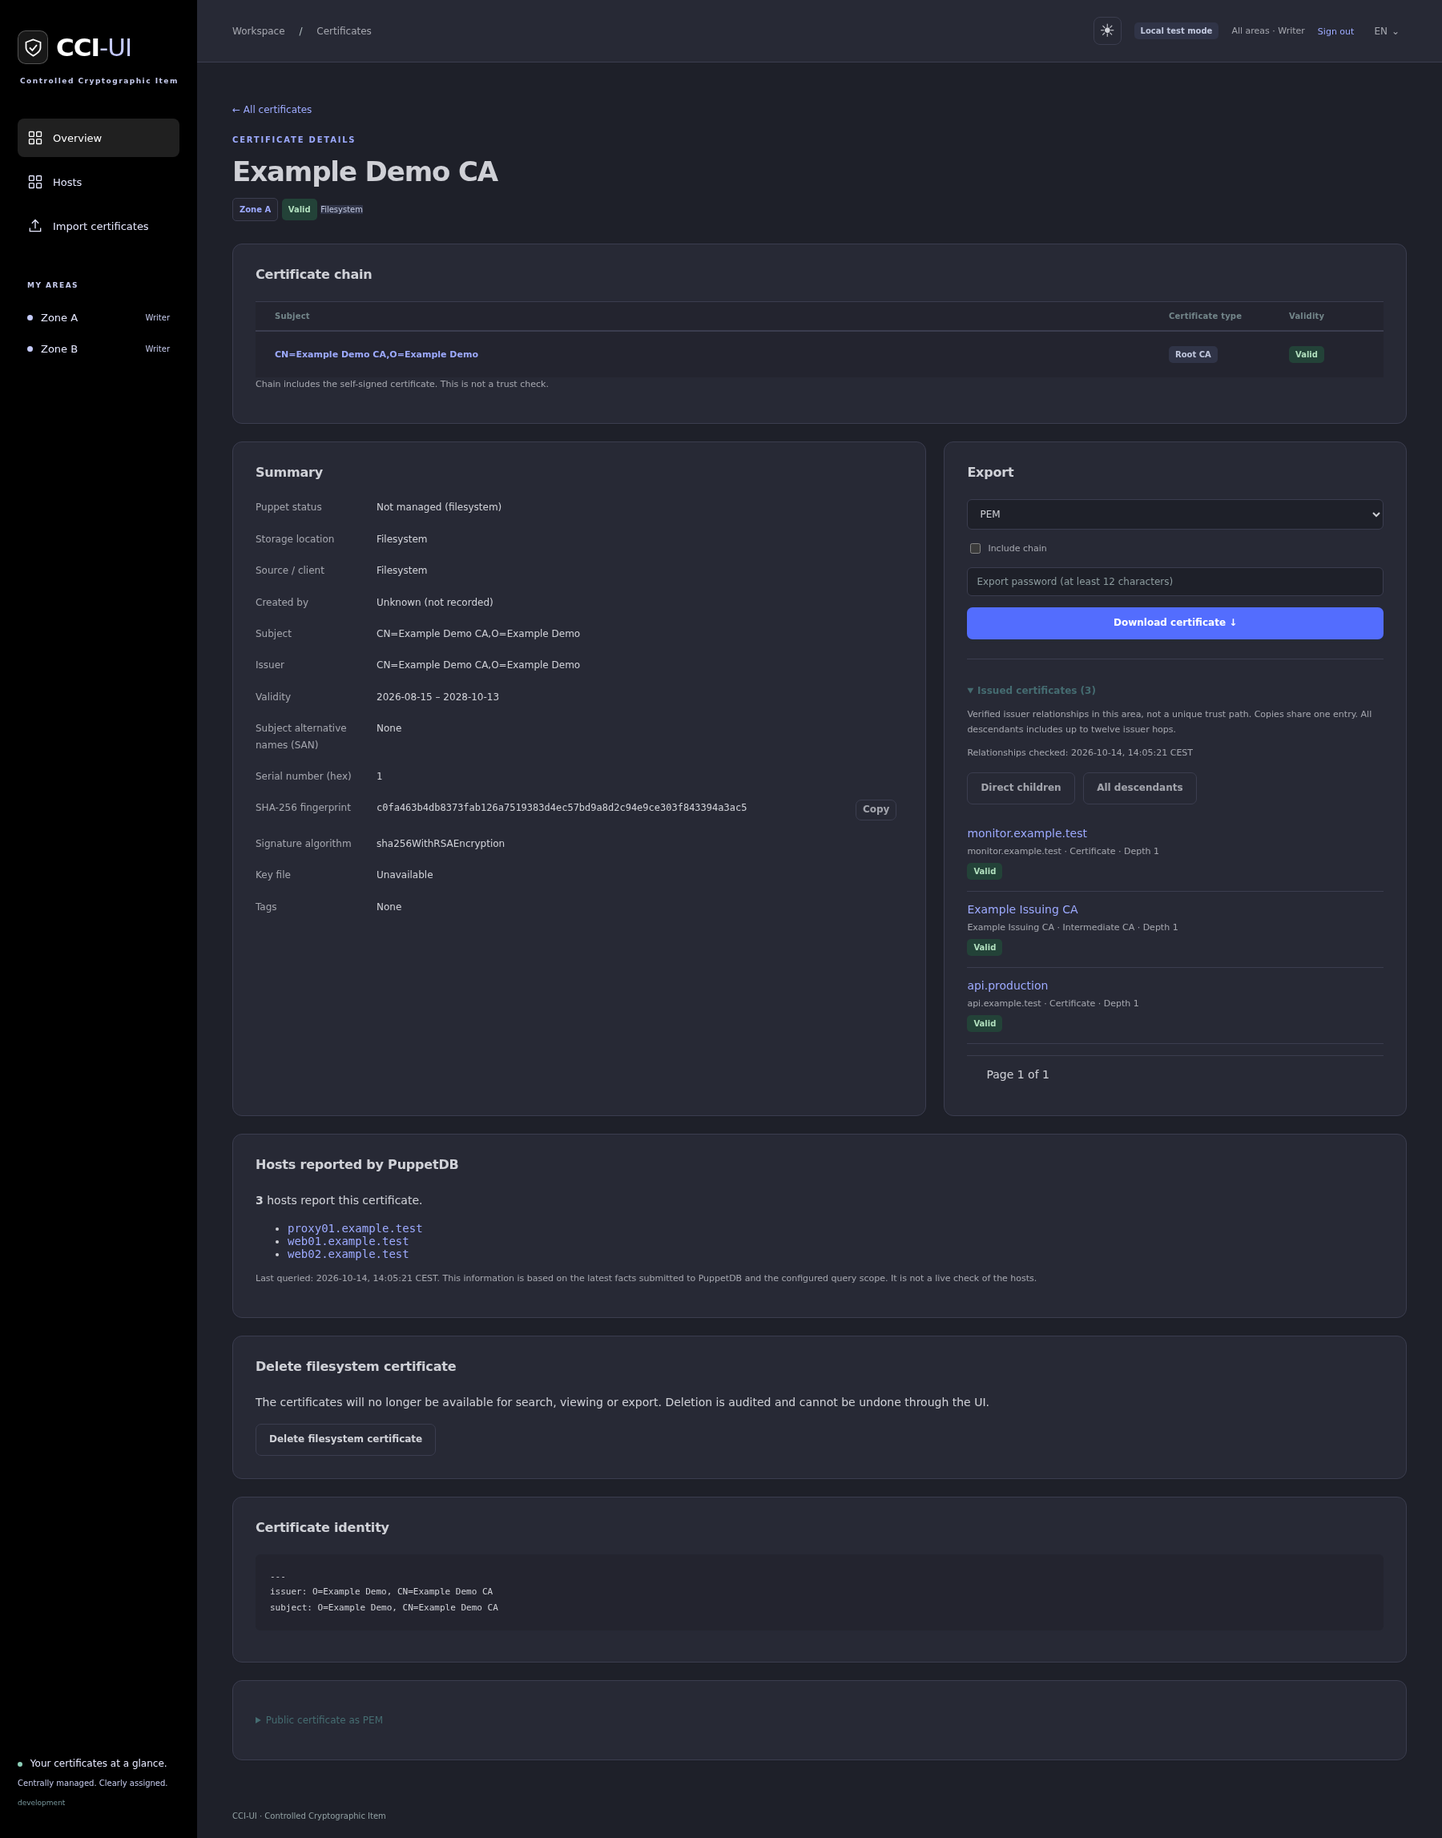
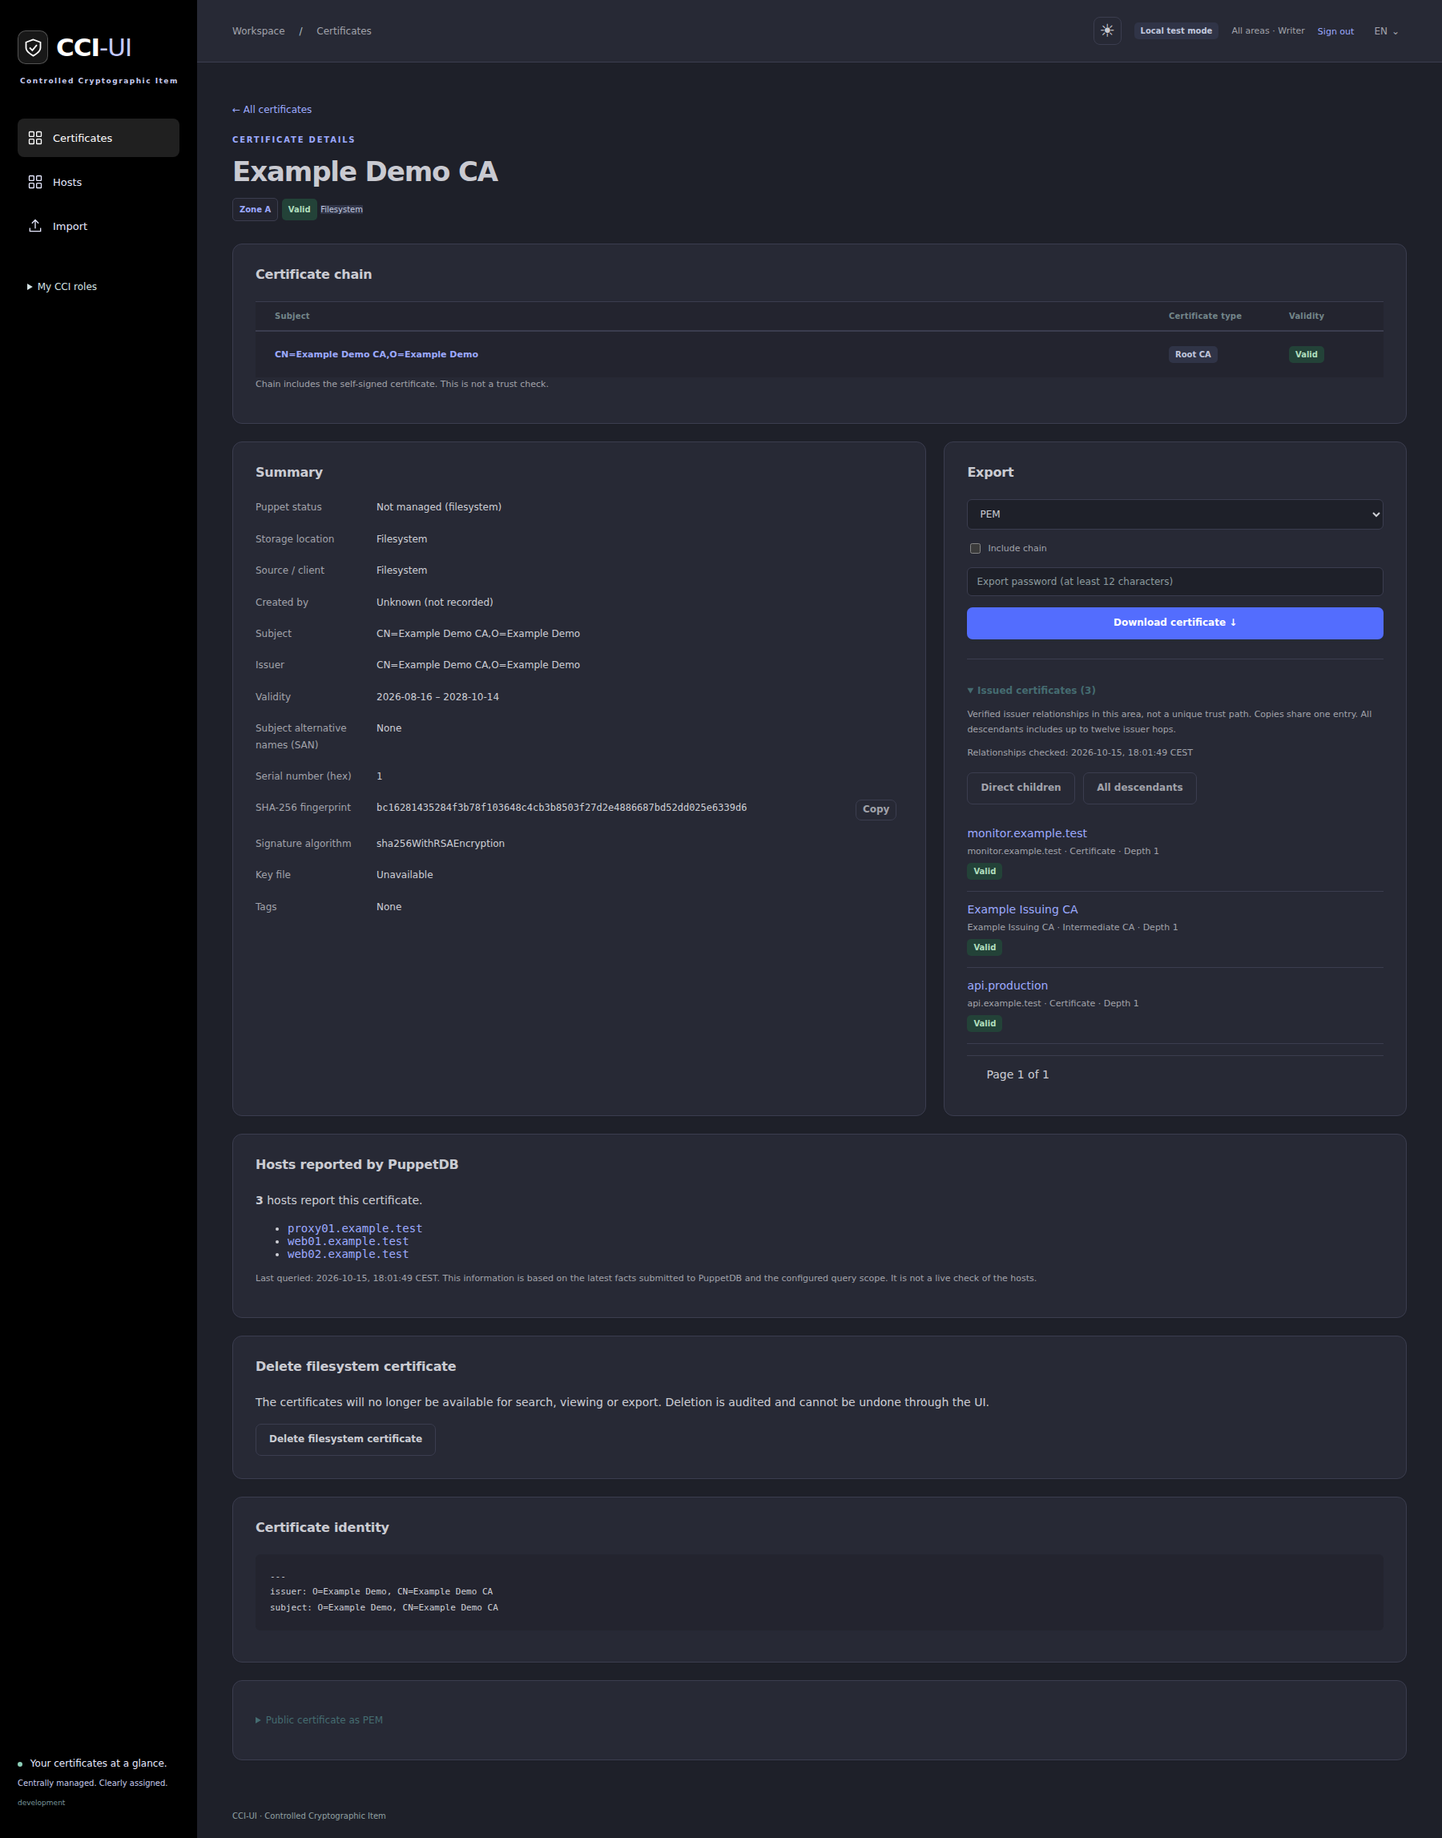
feat(ui): add a local dashboard and clearer certificate navigation
Use the logo for the permission-scoped local dashboard, order existing
navigation links and show actual assigned roles in a collapsed menu.
Display certificate counts, authorized areas, upcoming expirations and
honest cached-data freshness without live Consul or PuppetDB requests.

Keep long Subject, Issuer and Hiera values on one horizontally scrollable
line without widening narrow pages. Preserve fingerprint wrapping and
verify combined host search filters and pagination. Update both locales,
operator acceptance checks and all eight affected documentation images.

Completed-branch validation: Rails 349 runs, 4764 assertions, no failures,
errors or skips; RuboCop 211 files, no offenses; Brakeman no warnings;
current bundler-audit no vulnerabilities. Inventory, localization and CSR
browser tests and screenshot assertions passed, including 320px layouts.
The previously documented base-image Trivy gate remains unresolved;
these passing checks do not imply complete image security validation.

diff --git a/app/assets/stylesheets/application.css b/app/assets/stylesheets/application.css
@@ -981,4 +981,17 @@ main.full-width { max-width: none; }
 .host-table th:first-child, .host-table td:first-child { width: 45%; }
 .host-table th:nth-child(2) { width: 18%; }
 
+.sidebar-roles { margin: 24px 12px; font-size: 12px; color: inherit; }
+.sidebar-roles summary { cursor: pointer; color: inherit; }
+.area-roles { margin-top: 14px; overflow-wrap: anywhere; }
+.area-roles ul { list-style: none; padding: 0; margin: 6px 0; font-family: monospace; line-height: 1.8; }
+.dashboard-stats { grid-template-columns: repeat(auto-fit, minmax(160px, 1fr)); }
+.detail-grid > .detail-panel { min-width: 0; }
+.detail-panel .identity-value { min-width: 0; white-space: nowrap; overflow-x: auto; overflow-wrap: normal; }
+.certificate-identity { min-width: 0; max-width: 100%; }
+.certificate-identity pre { white-space: pre; overflow-wrap: normal; overflow-x: auto; max-width: 100%; }
+
+.dashboard-table th:first-child, .dashboard-table td:first-child { width: auto; min-width: 120px; }
+@media (max-width: 760px) { .sidebar nav { flex-wrap: wrap; } }
+
 .csr-form .area-choices .check-label { flex-direction: row; }

diff --git a/test/integration/dashboard_test.rb b/test/integration/dashboard_test.rb
@@ -1,0 +1,61 @@
+# frozen_string_literal: true
+
+require "test_helper"
+require_relative "../support/csr_fixtures"
+
+class DashboardTest < ActionDispatch::IntegrationTest
+  include CsrFixtures
+
+  test "dashboard scopes counts area rows and expiration links without external requests" do
+    current = store(issue.first)
+    expired = store(issue(name: "expired.example.test", expired: true).first, certid: "expired")
+    store(issue(name: "hidden.example.test").first, area: "zone_b")
+    current.update!(not_after: 2.days.from_now, puppetdb_hosts: %w[web.example.test shared.example.test])
+    create_csr
+    settings["puppetdb"]["enabled"] = true
+    post local_login_path, params: { identity: "zone_a_reader" }
+    original = ConsulStore.method(:client)
+    ConsulStore.define_singleton_method(:client) { |*| raise "Dashboard must not query Consul" }
+    get root_path
+    assert_response :success
+    assert_select '[data-stat="total"] strong', text: "2"
+    assert_select '[data-stat="valid"] strong', text: "1"
+    assert_select '[data-stat="expiring"] strong', text: "1"
+    assert_select '[data-stat="expired"] strong', text: "1"
+    assert_select '[data-stat="hosts"] strong', text: "2"
+    assert_select '[data-stat="open_csrs"] strong', text: "0"
+    assert_select "a[href=?]", certificate_path(expired)
+    assert_not_includes response.body, "hidden.example.test"
+    assert_not_includes response.body, "Zone B"
+    assert_includes response.body, I18n.t("dashboard.unknown")
+  ensure
+    ConsulStore.define_singleton_method(:client, original) if original
+  end
+
+  test "navigation is ordered roles are informational and dashboard has no navigation entry" do
+    post local_login_path, params: { identity: "all:writer" }
+    settings["puppetdb"]["enabled"] = true
+    get root_path
+    assert_select "nav .nav-item" do |links|
+      assert_equal([certificates_path, hosts_path, new_import_path], links.map { |link| link["href"] })
+    end
+    assert_select "a.brand[href=?]", root_path
+    assert_select ".sidebar-roles:not([open])"
+    assert_select ".sidebar-roles li", text: "zone_a_writer", count: 1
+    assert_select ".sidebar-roles li", text: "zone_b_writer", count: 1
+    assert_select "nav a[href=?]", root_path, count: 0
+    get certificates_path(area: "zone_a")
+    assert_select "select[name=area] option[selected][value=zone_a]"
+  end
+
+  test "CSR-only dashboard counts retained open requests without granting certificate access" do
+    csr = create_csr
+    post local_login_path, params: { identity: "zone_a_csr" }
+    get root_path
+    assert_select '[data-stat="total"] strong', text: "0"
+    assert_select '[data-stat="open_csrs"] strong', text: "1"
+    CsrWorkflow.delete(csr, identity: csr_identity, confirmed: true)
+    get root_path
+    assert_select '[data-stat="open_csrs"] strong', text: "0"
+  end
+end

diff --git a/test/integration/error_pages_test.rb b/test/integration/error_pages_test.rb
@@ -40,7 +40,7 @@ class ErrorPagesTest < ActionDispatch::IntegrationTest
   test "Ruby errors are logged with details hidden and do not redirect to login" do
     post local_login_path, params: { identity: "zone_a_reader" }
     with_search_failure do
-      get root_path, headers: { "Accept-Language" => "en" }
+      get certificates_path, headers: { "Accept-Language" => "en" }
     end
     assert_error_page :internal_server_error, "en", "An internal error occurred"
     assert_select "nav", count: 1
@@ -58,7 +58,7 @@ class ErrorPagesTest < ActionDispatch::IntegrationTest
     post local_login_path, params: { identity: "zone_a_reader" }
     post locale_path, params: { locale: "en" }
     with_search_failure do
-      get root_path, headers: { "Accept-Language" => "de-DE" }
+      get certificates_path, headers: { "Accept-Language" => "de-DE" }
     end
     assert_error_page :internal_server_error, "en", "An internal error occurred"
     assert_select ".error-details pre", text: /NameError/
@@ -72,7 +72,7 @@ class ErrorPagesTest < ActionDispatch::IntegrationTest
     post local_login_path, params: { identity: "zone_a_reader" }
     original = Certificate.method(:visible_to)
     Certificate.define_singleton_method(:visible_to) { |_identity| raise ActiveRecord::ConnectionNotEstablished, "database offline" }
-    get root_path, headers: { "Accept-Language" => "de-DE" }
+    get certificates_path, headers: { "Accept-Language" => "de-DE" }
     assert_error_page :service_unavailable, "de", "Dienst nicht verfügbar"
     assert_not_includes response.body, "database offline"
     assert_includes @log_output.string, "database offline"
@@ -119,7 +119,7 @@ class ErrorPagesTest < ActionDispatch::IntegrationTest
   test "errors during Turbo frame searches request the complete error layout" do
     post local_login_path, params: { identity: "zone_a_reader" }
     with_search_failure do
-      get root_path, headers: { "Accept-Language" => "en", "Turbo-Frame" => "results" }
+      get certificates_path, headers: { "Accept-Language" => "en", "Turbo-Frame" => "results" }
     end
     assert_error_page :internal_server_error, "en", "An internal error occurred"
     assert_select 'meta[name="turbo-visit-control"][content="reload"]'
@@ -144,7 +144,7 @@ class ErrorPagesTest < ActionDispatch::IntegrationTest
   test "HEAD Ruby errors log diagnostics without sending a body even when enabled" do
     Rails.application.config.x.show_error_details = true
     post local_login_path, params: { identity: "zone_a_reader" }
-    with_search_failure { head root_path }
+    with_search_failure { head certificates_path }
     assert_response :internal_server_error
     assert_empty response.body
     assert_includes @log_output.string, "sensitive diagnostic"

diff --git a/test/integration/puppetdb_hosts_test.rb b/test/integration/puppetdb_hosts_test.rb
@@ -23,12 +23,12 @@ class PuppetdbHostsTest < ActionDispatch::IntegrationTest
   test "host counts and detail lists are optional and use stored inventory" do
     @record.update!(puppetdb_hosts: %w[app01.example.test app02.example.test], puppetdb_checked_at: Time.current)
     settings["puppetdb"]["enabled"] = false
-    get root_path
+    get certificates_path
     assert_select "th", text: "Hosts", count: 0
     get certificate_path(@record)
     assert_select "#puppetdb-hosts", count: 0
     settings["puppetdb"]["enabled"] = true
-    get root_path
+    get certificates_path
     assert_select "th", text: "Hosts", count: 1
     assert_select ".puppetdb-host-count a", text: "2"
     get certificate_path(@record)
@@ -40,17 +40,17 @@ class PuppetdbHostsTest < ActionDispatch::IntegrationTest
 
   test "unknown empty and failed queries remain distinguishable" do
     settings["puppetdb"]["enabled"] = true
-    get root_path
+    get certificates_path
     assert_select ".puppetdb-host-count", text: "–"
     get certificate_path(@record)
     assert_includes response.body, "noch keine erfolgreiche PuppetDB-Abfrage"
     @record.update!(puppetdb_checked_at: Time.current)
-    get root_path
+    get certificates_path
     assert_select ".puppetdb-host-count a", text: "0"
     get certificate_path(@record)
     assert_includes response.body, "auf keinem Host gemeldet"
     @record.update!(puppetdb_hosts: ["cached.example.test"], puppetdb_error_at: Time.current)
-    get root_path
+    get certificates_path
     assert_select ".puppetdb-host-count a", text: "1"
     assert_includes response.body, "Abfrage fehlgeschlagen"
     get certificate_path(@record)
@@ -74,7 +74,7 @@ class PuppetdbHostsTest < ActionDispatch::IntegrationTest
     settings["puppetdb"]["enabled"] = true
     settings["puppetdb"]["inventory"]["fingerprint_algorithm"] = "sha1"
     @record.update!(sha1_fingerprint: nil)
-    get root_path
+    get certificates_path
     assert_select ".puppetdb-host-count a", count: 0
     assert_includes response.body, "Fingerprint fehlt"
     get certificate_path(@record)

diff --git a/test/integration/host_inventory_pages_test.rb b/test/integration/host_inventory_pages_test.rb
@@ -34,7 +34,7 @@ class HostInventoryPagesTest < ActionDispatch::IntegrationTest
     get hosts_path(area: "zone_b")
     assert_not_includes response.body, "secret.example.test"
     settings["puppetdb"]["enabled"] = false
-    get root_path
+    get certificates_path
     assert_select "a[href=?]", hosts_path, count: 0
     get hosts_path
     assert_response :not_found
@@ -56,6 +56,22 @@ class HostInventoryPagesTest < ActionDispatch::IntegrationTest
     assert_includes response.body, "Archiviert"
     assert_includes response.body, "Alte Version"
     assert_select "a[href=?]", certificate_path(second)
+  end
+
+  test "substring search combines area and sync filters and preserves them through pagination" do
+    @record.update!(puppetdb_hosts: Array.new(32) { |index| format("api-%02d.example.test", index) }, puppetdb_error_at: Time.current)
+    get hosts_path(q: "API-", area: "zone_a", sync: "stale", page: 2)
+    assert_response :success
+    assert_select "tbody tr", count: 2
+    assert_select ".pagination a" do |links|
+      assert(links.any? do |link|
+        link["href"].include?("q=API-") && link["href"].include?("area=zone_a") && link["href"].include?("sync=stale")
+      end)
+    end
+    get hosts_path(q: "api-", area: "zone_b", sync: "stale")
+    assert_select "tbody tr", count: 0
+    get hosts_path(q: "api-", area: "zone_a", sync: "current")
+    assert_select "tbody tr", count: 0
   end
 
   test "search pagination and stale filters use cached observations including missing SHA1" do

diff --git a/test/integration/certificate_controls_test.rb b/test/integration/certificate_controls_test.rb
@@ -94,9 +94,9 @@ class CertificateControlsTest < ActionDispatch::IntegrationTest
     patch certificate_path(@record), params: { rollout_status: "delete", certid_index: index }
     assert_redirected_to certificate_path(@record)
     assert_equal "delete", @record.reload.rollout_status
-    get root_path, params: { rollout_status: "delete", status: "valid", q: "portal" }
+    get certificates_path, params: { rollout_status: "delete", status: "valid", q: "portal" }
     assert_select "tbody tr", count: 1
-    get root_path, params: { rollout_status: "active" }
+    get certificates_path, params: { rollout_status: "active" }
     assert_select "tbody tr", count: 0
     patch certificate_path(@record), params: { rollout_status: "active", certid_index: index }
     assert_response :see_other
@@ -139,9 +139,9 @@ class CertificateControlsTest < ActionDispatch::IntegrationTest
       assert_response :see_other
       assert_equal "active", record.reload.rollout_status
       assert_equal content, File.read(path)
-      get root_path, params: { rollout_status: "norollout", source: "filesystem" }
+      get certificates_path, params: { rollout_status: "norollout", source: "filesystem" }
       assert_select "tbody tr", count: 0
-      get root_path, params: { rollout_status: "active", source: "filesystem" }
+      get certificates_path, params: { rollout_status: "active", source: "filesystem" }
       assert_select "tbody tr", count: 0
       patch certificate_path(record)
       assert_response :see_other

diff --git a/app/controllers/dashboard_controller.rb b/app/controllers/dashboard_controller.rb
@@ -1,0 +1,29 @@
+# frozen_string_literal: true
+
+# Reads permission-scoped local projections without probing external services.
+class DashboardController < ApplicationController
+  def index
+    records = Certificate.visible_to(current_identity)
+    @stats = statistics(records)
+    @open_csrs = CertificateRequest.visible_to(current_identity).where.missing(:csr_certificates).count
+    @areas = current_identity.areas.sort_by { |area| [AreaConfiguration.label(area).downcase, area] }
+    @area_stats = @areas.to_h { |area| [area, statistics(records.where(area: area))] }
+    @attention = records.order(:not_after, :id).limit(5)
+    @freshness = CaInventory.where(area: current_identity.areas).index_by(&:area)
+    @puppetdb_failures = records.where.not(puppetdb_error_at: nil).distinct.count(:area) if PuppetdbConfiguration.enabled?
+  end
+
+  private
+
+  def statistics(records)
+    result = { total: records.count }
+    { valid: "valid", expiring: "soon", expired: "expired" }.each do |key, status|
+      result[key] = CertificateSearch.filter_validity(records, status).count
+    end
+    if PuppetdbConfiguration.enabled?
+      result[:hosts] = records.joins("CROSS JOIN LATERAL jsonb_array_elements_text(puppetdb_hosts) AS host(name)")
+                              .distinct.count("host.name")
+    end
+    result
+  end
+end

diff --git a/test/integration/workflow_test.rb b/test/integration/workflow_test.rb
@@ -19,10 +19,10 @@ class WorkflowTest < ActionDispatch::IntegrationTest
   end
 
   test "login search details export and area isolation" do
-    get root_path
+    get certificates_path
     assert_redirected_to login_path
     login("zone_a_reader")
-    get root_path
+    get certificates_path
     assert_response :success
     assert_includes response.body, "portal.example.test"
     assert_not_includes response.body, "hidden.zone_b.test"
@@ -140,7 +140,7 @@ class WorkflowTest < ActionDispatch::IntegrationTest
     assert_not_includes response.body, "cci::certificates"
     assert_not_includes response.body, "Zertifikat herunterladen"
     assert_not_includes response.body, "BEGIN CERTIFICATE"
-    get root_path
+    get certificates_path
     assert_includes response.body, "Puppet-CertID"
     assert_not_includes response.body, "Auswahl exportieren"
   end

diff --git a/test/integration/certificate_archiving_test.rb b/test/integration/certificate_archiving_test.rb
@@ -41,13 +41,13 @@ class CertificateArchivingFlowTest < ActionDispatch::IntegrationTest
     assert_response :see_other
     assert @record.reload.archived
     assert_equal "delete", @record.rollout_status
-    get root_path
+    get certificates_path
     assert_select "tbody tr", count: 0
     assert_select ".stat-card strong", text: "0", count: 3
-    get root_path, params: { q: "portal" }
+    get certificates_path, params: { q: "portal" }
     assert_select "tbody tr", count: 1
     assert_select ".badge", text: "Archiviert"
-    get root_path, params: { archived: "1" }
+    get certificates_path, params: { archived: "1" }
     assert_select "tbody tr", count: 1
     post local_login_path, params: { identity: "zone_a_auditor" }
     get audit_events_path, params: { event_action: "archive" }

diff --git a/test/integration/legacy_deletion_test.rb b/test/integration/legacy_deletion_test.rb
@@ -56,7 +56,7 @@ class LegacyDeletionTest < ActionDispatch::IntegrationTest
     assert_equal "active", @record.rollout_status
     CatalogIndexer.run
     assert_equal 2, Certificate.where.not(deleted_at: nil).count
-    get root_path, params: { q: "legacy", history: "1", archived: "1" }
+    get certificates_path, params: { q: "legacy", history: "1", archived: "1" }
     assert_select "tbody tr", count: 0
     get certificate_path(@record)
     assert_response :not_found

diff --git a/test/integration/localization_test.rb b/test/integration/localization_test.rb
@@ -31,7 +31,7 @@ class LocalizationTest < ActionDispatch::IntegrationTest
     assert_language "en"
     assert_select ".language-menu button[value=en][aria-pressed=true]"
     post local_login_path, params: { identity: "zone_a_writer" }
-    get root_path, headers: { "Accept-Language" => "de" }
+    get certificates_path, headers: { "Accept-Language" => "de" }
     assert_language "en"
     assert_select "h1", text: "Certificates"
     delete logout_path

diff --git a/test/integration/multiple_legacy_sources_test.rb b/test/integration/multiple_legacy_sources_test.rb
@@ -28,7 +28,7 @@ class MultipleLegacySourcesIntegrationTest < ActionDispatch::IntegrationTest
 
   test "UI and exports enforce zone ownership with identical relative paths" do
     post local_login_path, params: { identity: "zone_a_reader" }
-    get root_path
+    get certificates_path
     assert_response :success
     assert_includes response.body, "zone_a.example.test"
     assert_not_includes response.body, "zone_b.example.test"
